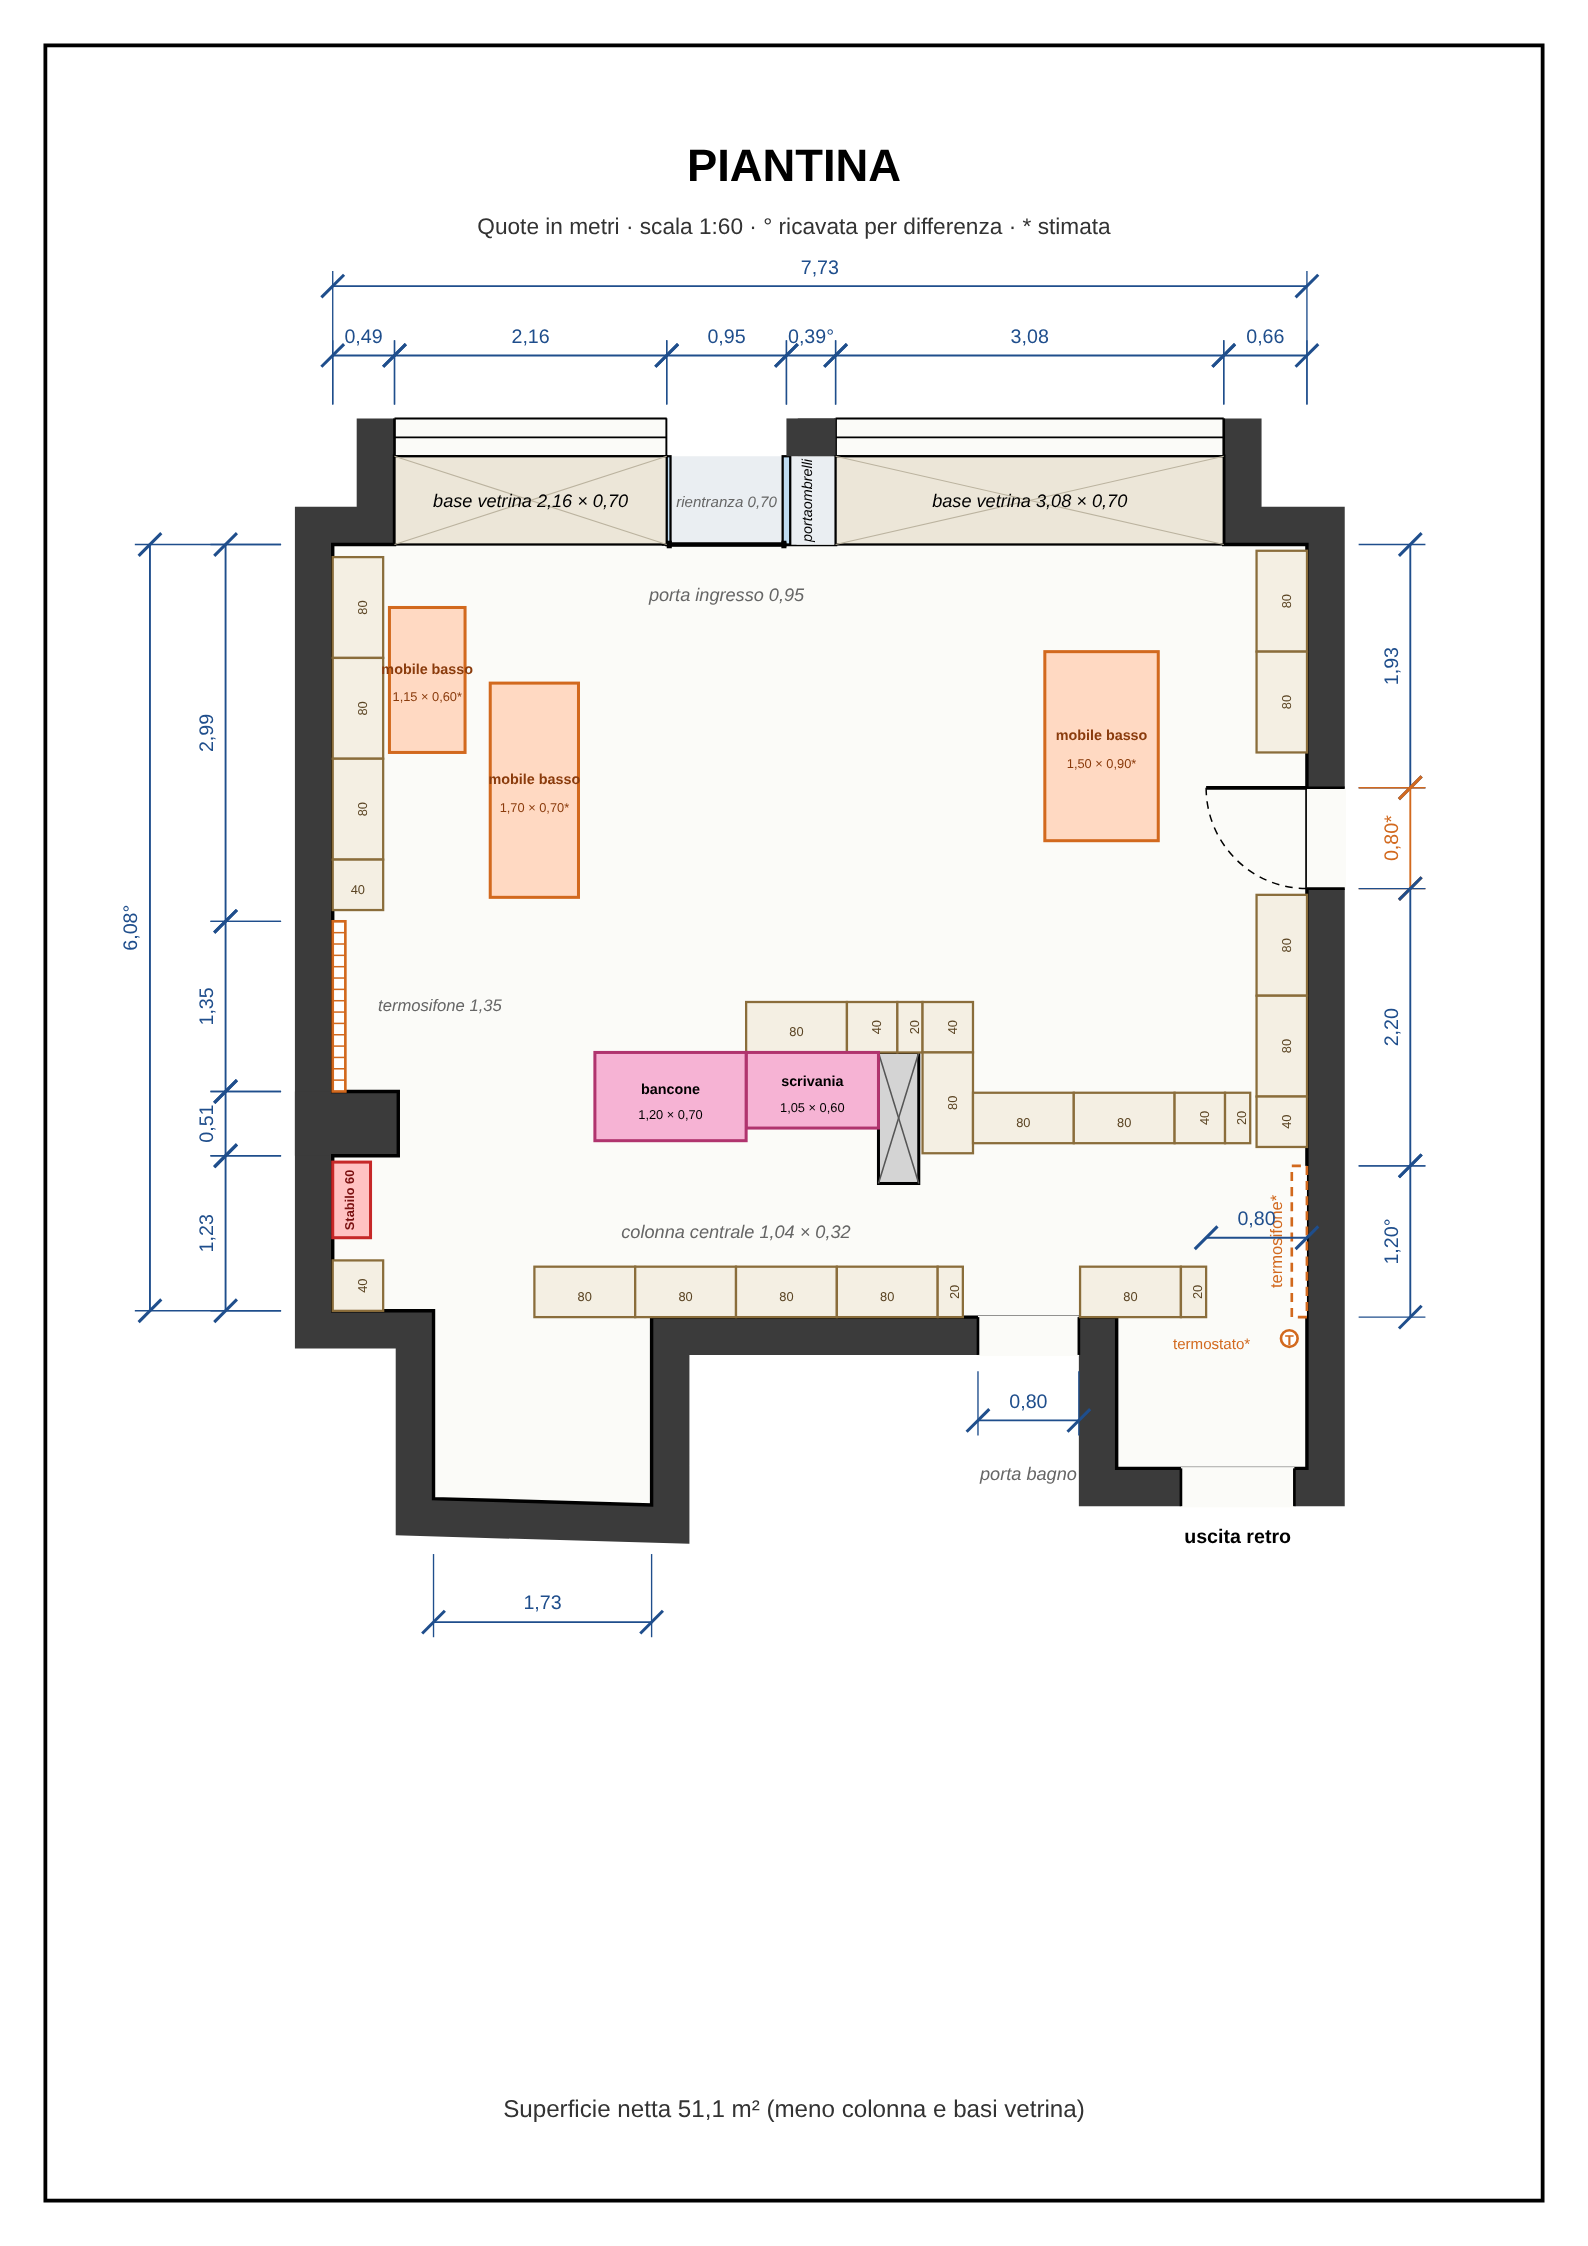
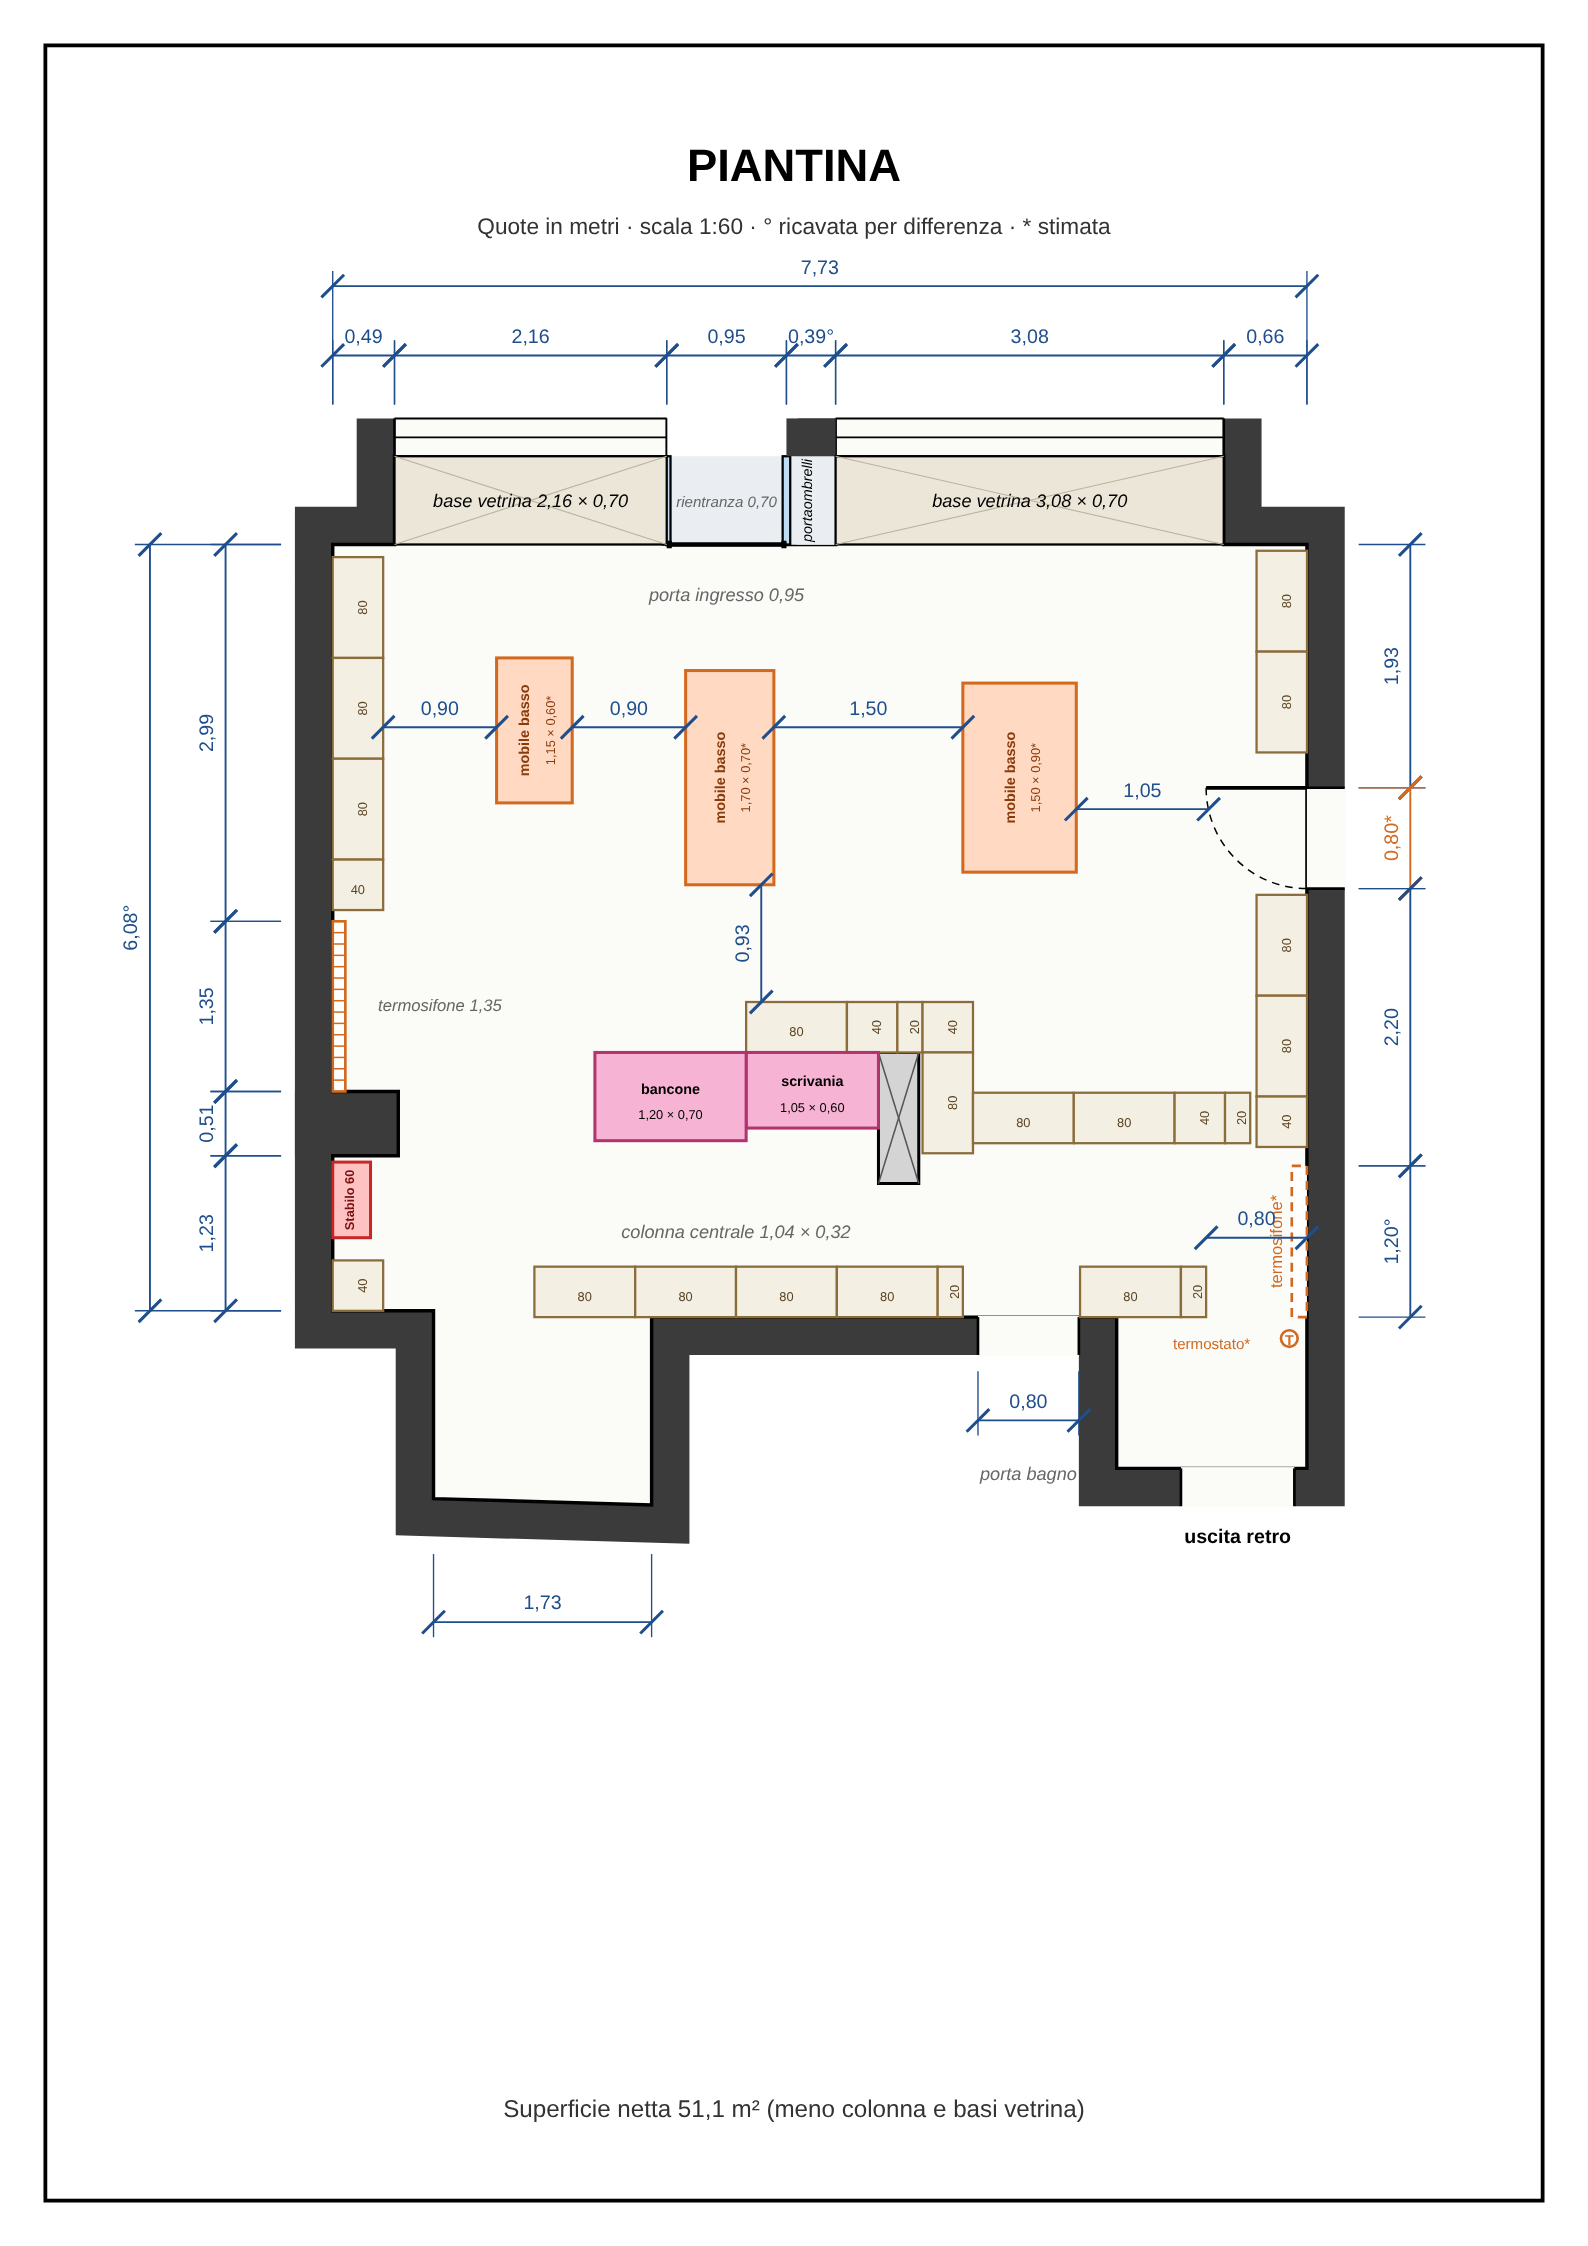
Mobili bassi riposizionati per lasciare corridoi di passaggio
Claude-Session: https://claude.ai/code/session_012mEpG2XJd9CwTCZtepJEcC

Changed region(s): [[0.5863, 0.2805, 0.7406, 0.4052], [0.2469, 0.2493, 0.3703, 0.4052], [0.4011, 0.2805, 0.4937, 0.4363]]

diff --git a/piantina/genera_piantina.py b/piantina/genera_piantina.py
@@ -261,12 +261,18 @@ if FURN:
     text(2.68, 4.36, "bancone", 1.9, "#000", weight="bold")
     text(2.68, 4.56, "1,20 × 0,70", 1.7, "#000")
 
-    # arancione: mobili bassi (misure stimate dalla foto) - rosso: espositore Stabilo da 60
-    for (x1, y1, x2, y2, lab) in [(0.45, 0.50, 1.05, 1.65, "1,15 × 0,60"), (1.25, 1.10, 1.95, 2.80, "1,70 × 0,70"),
-                                  (5.65, 0.85, 6.55, 2.35, "1,50 × 0,90")]:
+    # arancione: mobili bassi, messi in modo da lasciare corridoi di almeno 0,90 per il passaggio delle persone
+    for (x1, y1, x2, y2, lab) in [(1.30, 0.90, 1.90, 2.05, "1,15 × 0,60"), (2.80, 1.00, 3.50, 2.70, "1,70 × 0,70"),
+                                  (5.00, 1.10, 5.90, 2.60, "1,50 × 0,90")]:
         rect(x1, y1, x2, y2, fill="#ffd9c2", stroke="#d2691e", w=0.4)
-        text((x1 + x2) / 2, (y1 + y2) / 2 - 0.05, "mobile basso", 1.9, "#8a3b0c", weight="bold")
-        text((x1 + x2) / 2, (y1 + y2) / 2 + 0.17, lab + "*", 1.7, "#8a3b0c")
+        text((x1 + x2) / 2 - 0.04, (y1 + y2) / 2, "mobile basso", 1.9, "#8a3b0c", weight="bold", rot=-90)
+        text((x1 + x2) / 2 + 0.16, (y1 + y2) / 2, lab + "*", 1.7, "#8a3b0c", rot=-90)
+    # corridoi di passaggio (misure libere)
+    dim_h(0.40, 1.30, 1.45, "0,90")      # parete sinistra - mobile 1
+    dim_h(1.90, 2.80, 1.45, "0,90")      # mobile 1 - mobile 2
+    dim_h(3.50, 5.00, 1.45, "1,50")      # mobile 2 - mobile 3
+    dim_h(5.90, 6.95, 2.10, "1,05")      # mobile 3 - porta laterale aperta
+    dim_v(2.70, 3.63, 3.40, "0,93")      # mobile 2 - librerie
     rect(0.0, 4.90, 0.30, 5.50, fill="#ffc2c2", stroke="#c62828", w=0.4)
     text(0.17, 5.20, "Stabilo 60", 1.7, "#7a1010", weight="bold", rot=-90)
 
@@ -366,7 +372,7 @@ if MODE == 'a3':
         ptext(px, 244, "ARREDI (dal tuo schizzo)", 4.2, "#000", weight="bold")
         for i, t in enumerate(["Rosa: scrivania 1,05 + bancone 1,20 (in linea con la colonna)",
                                "Billy 202: 16 da 80, 4 da 40, 5 da 20 (profondità 40)",
-                               "Arancione: 3 mobili bassi (misure stimate dalla foto)",
+                               "Arancione: 3 mobili bassi, corridoi di passaggio da 0,90 a 1,50",
                                "Rosso: espositore Stabilo da 60",
                                "Quote interne nascoste per leggere meglio"]):
             ptext(px, 251 + i * 5.6, t, 3.1, "#222")
